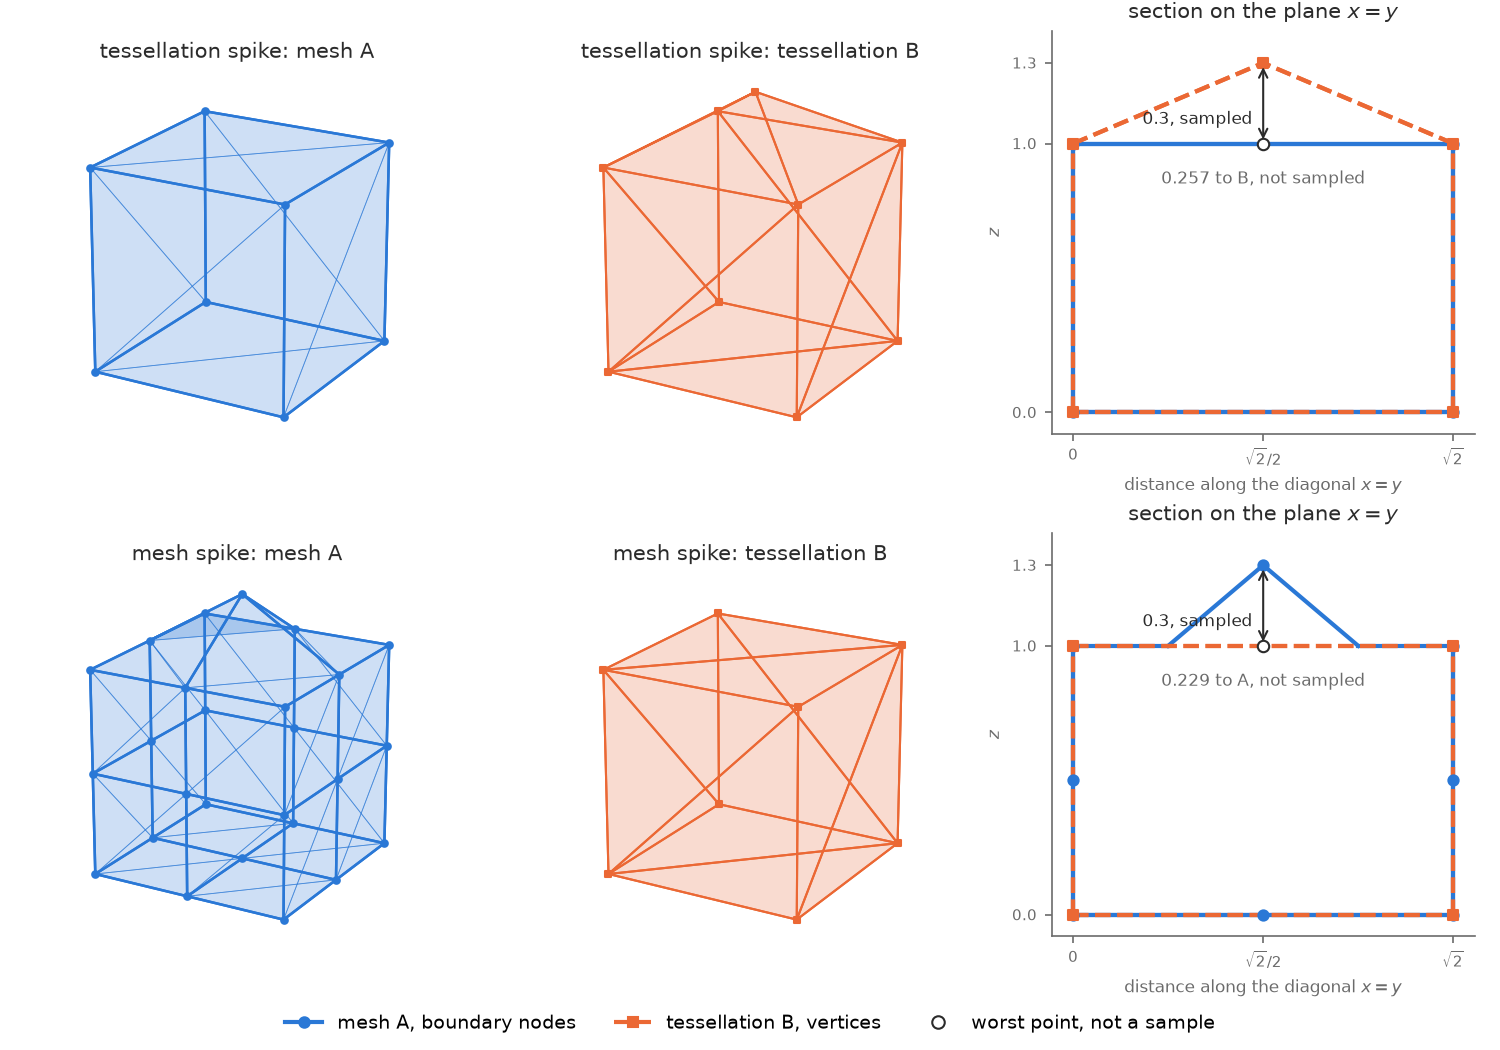
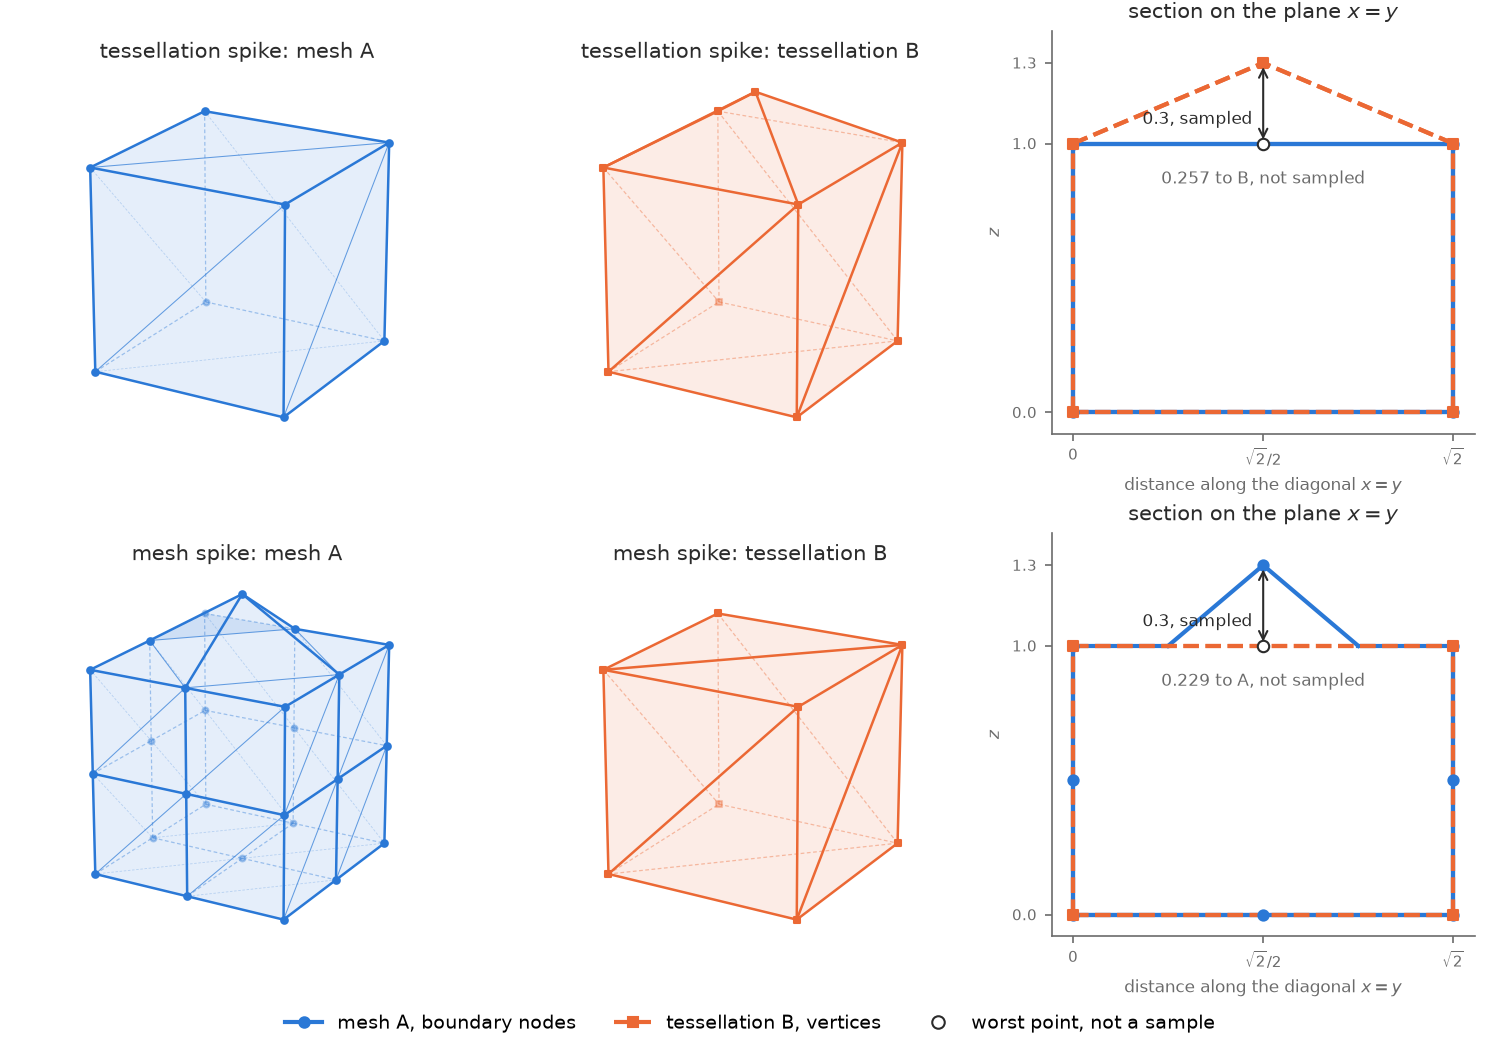
book: draw hidden lines dashed and light in the Hausdorff cube figure
An edge counts as visible when at least one face that shares it faces
the viewer. Hidden edges are dashed and light, hidden vertices are
faded, and only front-facing faces are filled.

diff --git a/book/theory/hausdorff/hausdorff_figures.py b/book/theory/hausdorff/hausdorff_figures.py
@@ -239,22 +239,77 @@ def section(triangles):
     ]
 
 
-def draw_3d(ax, c, title):
-    a_edges = [c["nodes"][q + [q[0]]] for q in c["quads"]]
+ELEVATION = 20
+AZIMUTH = -60
+EYE = np.array(
+    [
+        np.cos(np.radians(ELEVATION)) * np.cos(np.radians(AZIMUTH)),
+        np.cos(np.radians(ELEVATION)) * np.sin(np.radians(AZIMUTH)),
+        np.sin(np.radians(ELEVATION)),
+    ]
+)
+
+
+def front(face):
+    """True when the outward (Newell) normal of a planar or warped polygon faces the viewer."""
+    normal = np.zeros(3)
+    for p, q in zip(face, np.roll(face, -1, axis=0)):
+        normal += np.cross(p, q)
+    return normal @ EYE > 0
+
+
+def key(point):
+    return tuple(np.round(point, 9))
+
+
+def edge_visibility(faces):
+    """Splits polygon edges into visible and hidden, by the faces that share them."""
+    edges = {}
+    for face in faces:
+        facing = front(face)
+        for p, q in zip(face, np.roll(face, -1, axis=0)):
+            k = tuple(sorted((key(p), key(q))))
+            edges.setdefault(k, [p, q, False])
+            edges[k][2] |= facing
+    visible = [[p, q] for p, q, seen in edges.values() if seen]
+    hidden = [[p, q] for p, q, seen in edges.values() if not seen]
+    return visible, hidden, set(edges)
+
+
+def lines(ax, segments, **style):
+    if segments:
+        ax.add_collection3d(Line3DCollection(segments, **style))
+
+
+def draw_surface(ax, outlines, triangles, samples, color, marker, title):
+    """Draws a closed surface with hidden lines dashed and light.
+
+    Outlines are the element faces (quadrilaterals or triangles).  Triangle
+    edges that are not outline edges are the quadrilateral splits, drawn thin.
+    """
+    visible, hidden, outline_keys = edge_visibility(outlines)
+    split_visible, split_hidden, _ = edge_visibility(triangles)
+    split_visible = [e for e in split_visible if tuple(sorted(map(key, e))) not in outline_keys]
+    split_hidden = [e for e in split_hidden if tuple(sorted(map(key, e))) not in outline_keys]
+    dashed = (0, (3, 2))
+    lines(ax, hidden, colors=color, linewidths=0.6, alpha=0.4, linestyles=dashed)
+    lines(ax, split_hidden, colors=color, linewidths=0.4, alpha=0.25, linestyles=dashed)
     ax.add_collection3d(
         Poly3DCollection(
-            c["a_triangles"], facecolor=MESH, alpha=0.12, edgecolor="none"
+            [t for t in triangles if front(t)], facecolor=color, alpha=0.12, edgecolor="none"
         )
     )
-    split = [np.vstack([t, t[:1]]) for t in c["a_triangles"]]
-    ax.add_collection3d(Line3DCollection(split, colors=MESH, linewidths=0.4, alpha=0.6))
-    ax.add_collection3d(Line3DCollection(a_edges, colors=MESH, linewidths=1.2))
-    ax.scatter(*c["a_samples"].T, color=MESH, s=10, depthshade=False)
+    lines(ax, split_visible, colors=color, linewidths=0.5, alpha=0.7)
+    lines(ax, visible, colors=color, linewidths=1.2)
+    shown = {key(p) for face in outlines if front(face) for p in face}
+    seen = np.array([key(p) in shown for p in samples])
+    ax.scatter(*samples[~seen].T, color=color, s=8, marker=marker, alpha=0.35, depthshade=False)
+    ax.scatter(*samples[seen].T, color=color, s=10, marker=marker, depthshade=False)
     ax.set_xlim(0, 1)
     ax.set_ylim(0, 1)
     ax.set_zlim(0, 1.3)
     ax.set_box_aspect((1, 1, 1.3))
-    ax.view_init(elev=20, azim=-60)
+    ax.view_init(elev=ELEVATION, azim=AZIMUTH)
     ax.set_axis_off()
     ax.set_title(title, fontsize=10, color=INK, y=0.98)
 
@@ -317,8 +372,24 @@ def main():
         (spike_m, "mesh spike", (1.0, f"{spike_m['continuous_b_to_a']:.3f} to A, not sampled")),
     ]
     for row, (c, label, missed) in enumerate(rows):
-        draw_3d(figure.add_subplot(2, 3, 3 * row + 1, projection="3d"), c, f"{label}: mesh A")
-        draw_3d_b(figure.add_subplot(2, 3, 3 * row + 2, projection="3d"), c, f"{label}: tessellation B")
+        draw_surface(
+            figure.add_subplot(2, 3, 3 * row + 1, projection="3d", computed_zorder=False),
+            [c["nodes"][q] for q in c["quads"]],
+            c["a_triangles"],
+            c["a_samples"],
+            MESH,
+            "o",
+            f"{label}: mesh A",
+        )
+        draw_surface(
+            figure.add_subplot(2, 3, 3 * row + 2, projection="3d", computed_zorder=False),
+            c["b_triangles"],
+            c["b_triangles"],
+            c["b_samples"],
+            TESSELLATION,
+            "s",
+            f"{label}: tessellation B",
+        )
         draw_section(figure.add_subplot(2, 3, 3 * row + 3), c, missed)
     handles = [
         plt.Line2D([], [], color=MESH, linewidth=2, marker="o", markersize=5, label="mesh A, boundary nodes"),
@@ -328,24 +399,6 @@ def main():
     figure.legend(handles=handles, loc="lower center", ncol=3, frameon=False, fontsize=9)
     figure.tight_layout(rect=(0, 0.05, 1, 1), h_pad=2.5)
     figure.savefig(HERE / "hausdorff_cases.png", dpi=150)
-
-
-def draw_3d_b(ax, c, title):
-    b_edges = [np.vstack([t, t[:1]]) for t in c["b_triangles"]]
-    ax.add_collection3d(
-        Poly3DCollection(
-            c["b_triangles"], facecolor=TESSELLATION, alpha=0.12, edgecolor="none"
-        )
-    )
-    ax.add_collection3d(Line3DCollection(b_edges, colors=TESSELLATION, linewidths=1.0))
-    ax.scatter(*c["b_samples"].T, color=TESSELLATION, s=10, marker="s", depthshade=False)
-    ax.set_xlim(0, 1)
-    ax.set_ylim(0, 1)
-    ax.set_zlim(0, 1.3)
-    ax.set_box_aspect((1, 1, 1.3))
-    ax.view_init(elev=20, azim=-60)
-    ax.set_axis_off()
-    ax.set_title(title, fontsize=10, color=INK, y=0.98)
 
 
 if __name__ == "__main__":

diff --git a/book/theory/hausdorff.md b/book/theory/hausdorff.md
@@ -101,6 +101,7 @@ The two spike cases.
 Mesh $\mathcal{A}$ is blue, with its boundary nodes as dots.
 Thin blue lines split each boundary quadrilateral into the two triangles described under [Surface Triangulation](#surface-triangulation).
 Tessellation $\mathcal{B}$ is orange, with its vertices as squares.
+Light dashed lines and faded markers lie on the far side of a surface, hidden from this view.
 The right column cuts both surfaces with the diagonal plane $x = y$.
 That plane passes through the moved point, two cube edges, and every sample that lies on the diagonal.
 The hollow circle marks the point that lies farthest from the other surface without being a sample.
